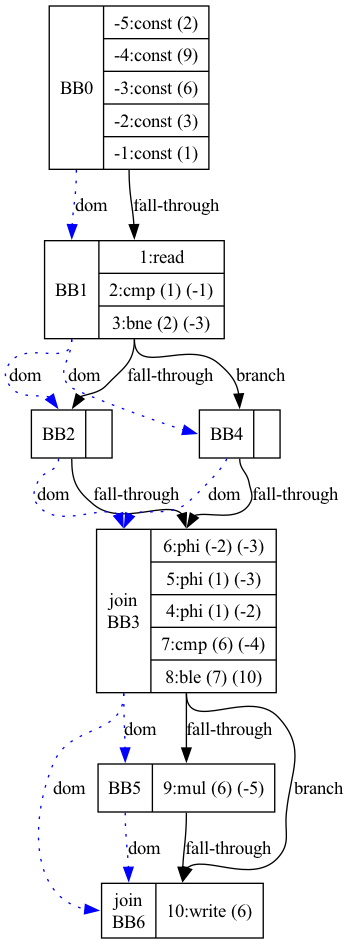
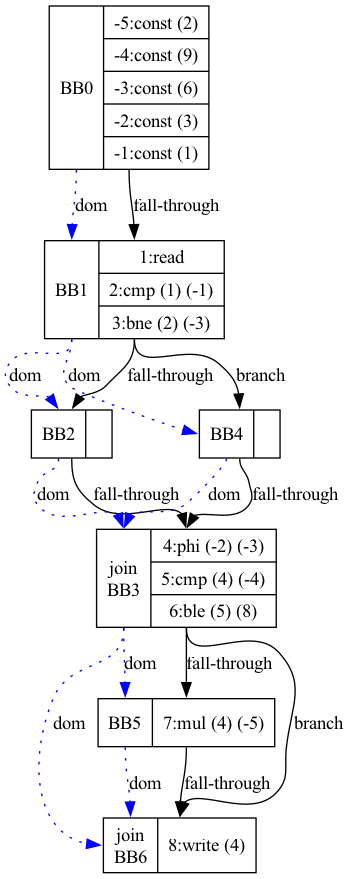
ok finally got it working; resolved issue with ifStatement multiple phi's in join (then, else, join = 3 phis) for the same ident...todo - resolve phi creation for single (then no else); CONTINUE STILL ONLY IN [SIMPLE_IF.TY]

diff --git a/src/Parser.hpp b/src/Parser.hpp
@@ -56,6 +56,7 @@ public:
         this->prevInstr = nullptr;
 
         this->block = blk;
+        this->generateBlkBlksSeen = {};
         // this->blocksSeen = {};
 
         next(); // [10/14/2024]: Why do we do this?
@@ -411,13 +412,14 @@ public:
             #endif
             
             if (this->block) {
-                #ifdef DEBUG
-                    if (this->currBB) {
-                        std::cout << "currBB looks like: " << this->currBB->toString() << std::endl;
-                    } else {
-                        std::cout << "currBB looks like: nullptr!" << std::endl;
-                    }
-                #endif
+                // #ifdef DEBUG
+                //     std::cout << "currBB looks like: ";
+                //     if (this->currBB) {
+                //         std::cout << this->currBB->toString() << std::endl;
+                //     } else {
+                //         std::cout << "nullptr!" << std::endl;
+                //     }
+                // #endif
                 if (instr->get_operator() == 6) {
                     // [11.01.2024]: phi instructions go ontop of [this->newInstrs]
                     // - insert into initial position
@@ -686,8 +688,11 @@ public:
     }
 
     // 11.11.2024: dfs to recursively generate blocks for DOT
-    inline std::string generateBlocks(BasicBlock *curr, std::string res, std::vector<BasicBlock *>blocksSeen) {
-        blocksSeen.push_back(curr);
+    inline std::string generateBlocks(BasicBlock *curr, std::string res) {
+        this->generateBlkBlksSeen.push_back(curr->blockNum);
+        #ifdef DEBUG
+            std::cout << "generateBlocks pushed_back: [" << curr->blockNum << "]" << std::endl;
+        #endif
 
         if (curr->join) {
             res += "\tbb" + std::to_string(curr->blockNum) + " [shape=record, label=\"<b>join\\n" + curr->toDOT() + "\"];\n";
@@ -698,11 +703,11 @@ public:
         //     std::cout << "updated res: " << res << std::endl << std::endl;
         // #endif
 
-        if ((curr->child) && (std::find(blocksSeen.begin(), blocksSeen.end(), curr->child) == blocksSeen.end())) {
-            res = this->generateBlocks(curr->child, res, blocksSeen);
+        if ((curr->child) && (std::find(this->generateBlkBlksSeen.begin(), this->generateBlkBlksSeen.end(), curr->child->blockNum) == this->generateBlkBlksSeen.end())) {
+            res = this->generateBlocks(curr->child, res);
         }
-        if ((curr->child2) && (std::find(blocksSeen.begin(), blocksSeen.end(), curr->child2) == blocksSeen.end())) {
-            res = this->generateBlocks(curr->child2, res, blocksSeen);
+        if ((curr->child2) && (std::find(this->generateBlkBlksSeen.begin(), this->generateBlkBlksSeen.end(), curr->child2->blockNum) == this->generateBlkBlksSeen.end())) {
+            res = this->generateBlocks(curr->child2, res);
         }
 
         return res;
@@ -716,11 +721,10 @@ public:
         // for (BasicBlock *blk : this->blocksSeen) {
         //     blk = nullptr;
         // }
-        std::vector<BasicBlock *> blks = {};
         // #ifdef DEBUG
         //     std::cout << "entering [generateBlocks]..." << std::endl;
         // #endif
-        res = this->generateBlocks(this->BB0, res, blks);
+        res = this->generateBlocks(this->BB0, res);
 
         // BasicBlock *curr = this->BB0;
 
@@ -865,6 +869,7 @@ public:
     void parse_generate_SSA(); // generate all SSA Instructions
 private:
     bool block;
+    std::vector<int> generateBlkBlksSeen;
 
     Result sym;
     std::vector<Result> source;

diff --git a/src/BasicBlock.cpp b/src/BasicBlock.cpp
@@ -161,7 +161,8 @@ SSA *BasicBlock::getConstSSA(int val) {
     return res;
 }
 
-void BasicBlock::removeSSA(SSA *toRemove) {
+// returns the updated vector after remove
+void BasicBlock::removeSSA(SSA *toRemove,  std::vector<SSA*> &debugSSA_instrs) {
     Node *curr = nullptr;
 
     for (auto it = this->newInstrs.begin(); it != this->newInstrs.end(); ++it) {
@@ -211,5 +212,15 @@ void BasicBlock::removeSSA(SSA *toRemove) {
             #endif
             break;  // Exit after deletion to avoid invalid iterator usage
         }
+    }
+
+    SSA *tmp = nullptr;
+    for (size_t i = 0; i < debugSSA_instrs.size(); i++) {
+        tmp = debugSSA_instrs.at(i);
+
+        if (tmp->get_debugNum() == toRemove->get_debugNum()) {
+            debugSSA_instrs.erase(debugSSA_instrs.begin() + i);
+            break;
+        } 
     }
 }

diff --git a/src/Parser.cpp b/src/Parser.cpp
@@ -1143,8 +1143,8 @@ SSA* Parser::p2_ifStatement() {
                 #endif
 
                 // delete the previous phi's now
-                this->currBB->removeSSA(then_phi);
-                this->currBB->removeSSA(else_phi);
+                this->currBB->removeSSA(then_phi, this->SSA_instrs);
+                this->currBB->removeSSA(else_phi, this->SSA_instrs);
             }
 
 

diff --git a/src/BasicBlock.hpp b/src/BasicBlock.hpp
@@ -126,7 +126,7 @@ public:
     std::string toDOT() const;
     void updateInstructions(SSA *oldVal, SSA *newVal);
     SSA *getConstSSA(int constVal);
-    void removeSSA(SSA *toRemove);
+    void removeSSA(SSA *toRemove, std::vector<SSA*> &debugSSA_instrs);
 
     BasicBlock *parent, *parent2;
     BasicBlock *child, *child2;
